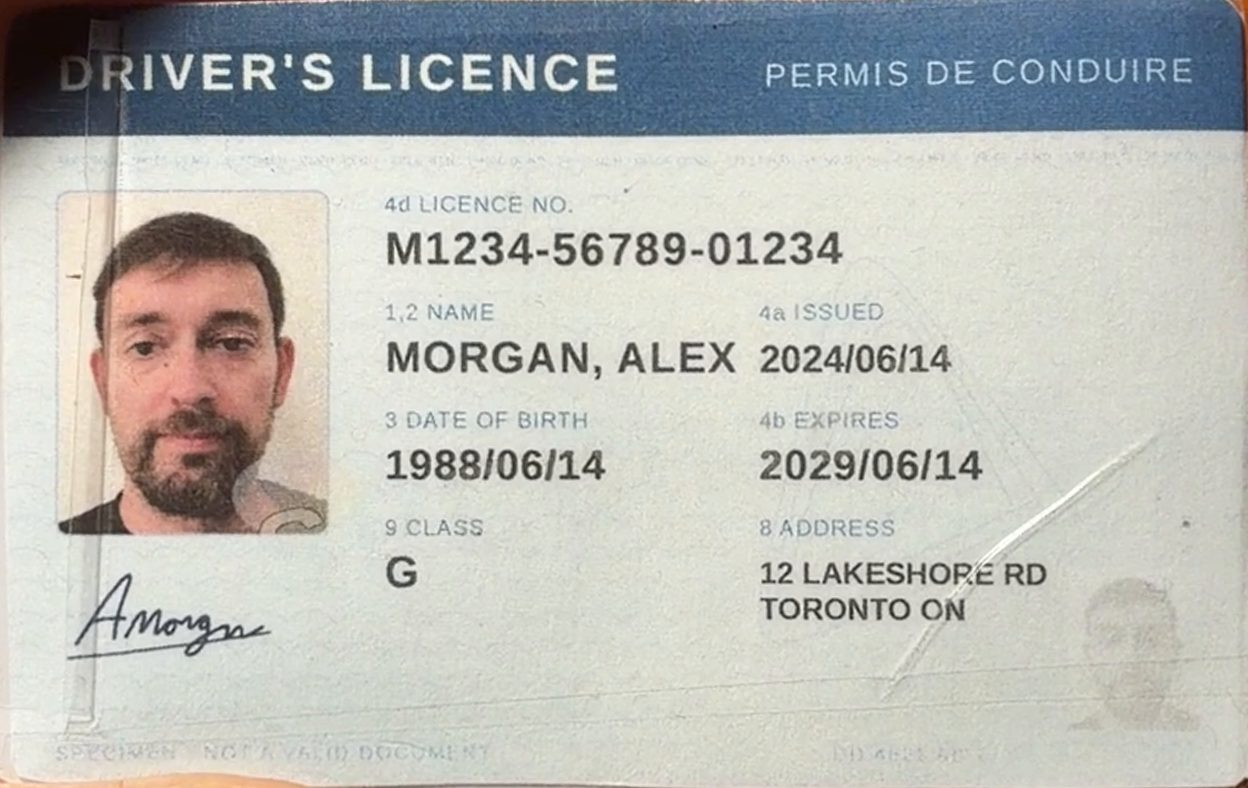
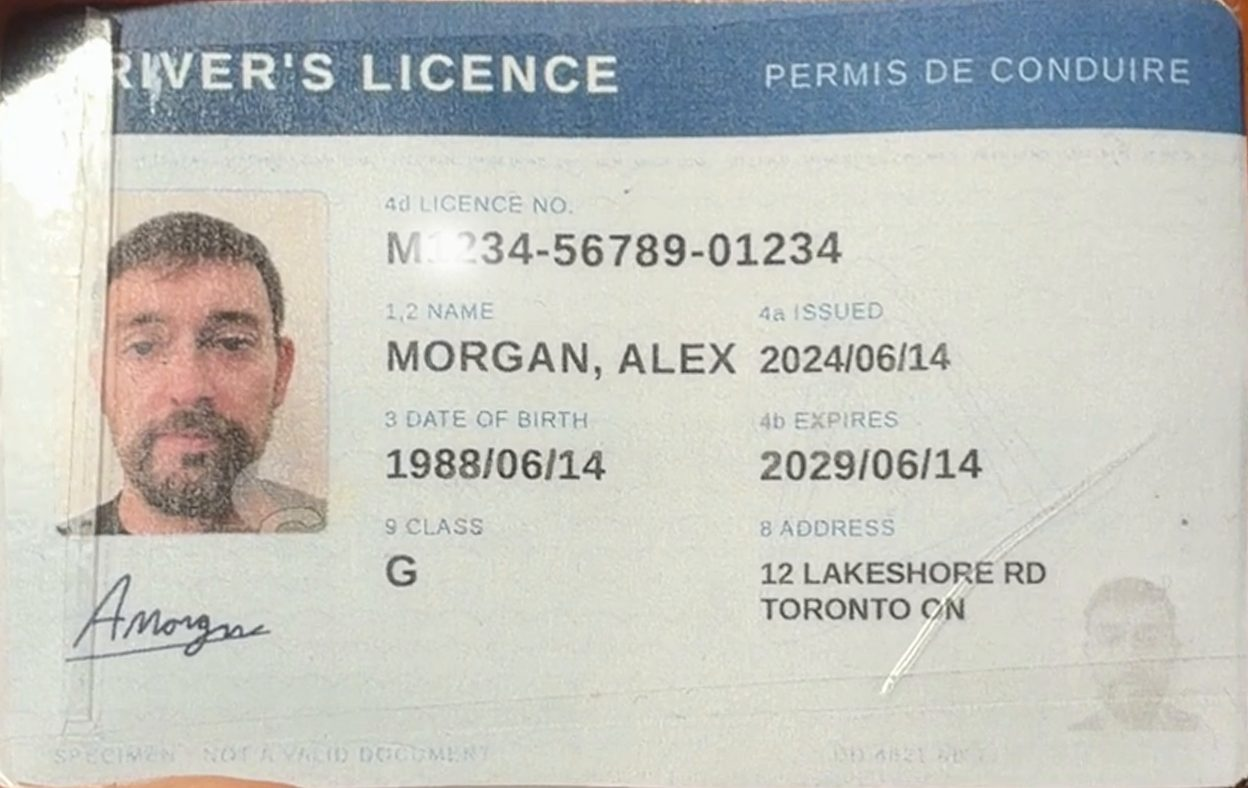
Uride prototype: real camera checks the front right away; one licence-number character under glare is fixed on Check details
Claude-Session: https://claude.ai/code/session_018u1JwWcJ2tKeLwzPZHSzSa

diff --git a/uride-onboarding/index.html b/uride-onboarding/index.html
@@ -347,6 +347,7 @@ body.rec.bare .foot{padding-bottom:12px}
 .field.editing{border-color:var(--ink);box-shadow:0 0 0 3px rgba(31,42,55,.12);background:#fff}
 .field input{width:100%;border:0;outline:0;font-size:16px;line-height:24px;color:var(--ink);background:transparent}
 .field input::placeholder{color:#8A99A4}
+.numgap{flex:1;display:flex;align-items:baseline;font-size:16px;line-height:24px}.numgap input{width:22px;flex:none;text-align:center;margin:0 1px;border-bottom:2px solid var(--amber);border-radius:0;caret-color:var(--ink);font-weight:600}.field.invalid .numgap input{border-color:var(--red-text)}
 .field .err{display:none;font-size:13px;color:var(--red-text);margin-top:2px}
 .field.invalid{border-color:#E0786F}
 .field.invalid .err{display:block}
@@ -628,7 +629,7 @@ function cardBack(){
 /* ================= scenarios ================= */
 const SCEN = {
   story:  {name:'Full story', note:'One take: an expired card first, then glare, shaky hands, one unclear digit and the review screen.', dot:'#1F2A37', f:{expiredFirst:1, glare:'front', blur:'back', unsure:1}},
-  real:   {name:'Real camera', note:'One take on an iPhone with printed specimen cards: an expired card first, then the current one under real lamp glare, both sides.', dot:'#0B6E4F', f:{real:1}},
+  real:   {name:'Real camera', note:'One take on an iPhone with printed specimen cards: an expired card first, then the current one under real lamp glare. A trace of glare hides one character of the licence number; the driver types it.', dot:'#0B6E4F', f:{real:1, unsure:1, unsureKey:'num'}},
   happy:  {name:'Happy path', note:'Card found, captured and read without help.', dot:'#1E8E3E', f:{}},
   glare:  {name:'Glare on the card', note:'A light reflection hides the text. The app asks to tilt.', dot:'#E8A317', f:{glare:'front'}},
   blur:   {name:'Shaky hands', note:'The image is blurry, so capture waits until it is sharp.', dot:'#E8A317', f:{blur:'front'}},
@@ -655,6 +656,7 @@ const SPEC = {
   flip:{t:'Now the back', d:'The card turns over in place, so the driver understands what to do without reading anything.', why:'<b>Show, don’t tell:</b> one movement replaces a paragraph of instructions.', rows:[['Card flip','900ms',sp('· bounce .06')],['Hint cross-fade','240ms','standard']], hap:'Light tap when the flip prompt appears.'},
   read:{t:'Reading the licence', d:'A scan line passes over the photo. Each value lights up on the card at the moment it lands in its field, so the driver sees where every value came from.', why:'<b>Trust:</b> linking the box on the card to the field makes autofill feel checkable, not magic.', rows:[['Photo hand-off','550ms',sp('· bounce 0')],['Scan line','1500ms','ease-in-out'],['Field fill stagger','260ms each','emphasized decel'],['Tick','400ms',sp('· bounce .25')]], hap:'Success when all fields are filled.'},
   unsure:{t:'One value needs a check', d:'OCR is not sure about the expiry date. Only that field turns amber and says why. The driver taps Fix, the number keypad opens with the year almost filled, types the last digit and presses Enter. Continue unlocks.', why:'<b>Rule:</b> never silently guess a legal value. Ask only about the one field we are unsure of.', rows:[['Scroll to the field','smooth','browser default'],['Fix button nudge','2 × 700ms','ease-in-out'],['Edit focus ring','200ms','standard'],['Button unlocks','300ms','standard']], hap:'Light tap on Done.'},
+  unsureNum:{t:'One character needs a check', d:'A trace of the lamp’s glare stayed over the start of the licence number. The expiry date read fine, so the card was accepted at once; this value can wait for the review screen. Only the hidden character is asked for, with the number keypad.', why:'<b>Rule:</b> stop at the camera only for what makes going on pointless (expired, wrong document). Anything the driver can fix in a second waits for one review screen.', rows:[['Field highlight','240ms','standard'],['Gap fills, tick','250ms + pop',sp('· bounce .25')]], hap:'Light tap when the value is confirmed.'},
   expired:{t:'Licence has expired', d:'We read the date right after the front photo, so the driver does not flip a card we cannot accept. The message is about the document, not the photo. One clear action: scan a valid licence. A temporary paper licence has its own path.', why:'<b>2024 problem:</b> the expired warning could be closed and Continue still worked.', rows:[['Checking the front','1100ms','spinner'],['Sheet rises','600ms',sp('· bounce 0')],['Old card leaves','520ms','emphasized accel'],['New card comes in','1200ms','emphasized decel']], hap:'Error (three short taps), once.'},
   review:{t:'Under review: a calm wait', d:'The photo the driver just took carries over and settles in the middle. While we check, the motion is slow on purpose: one turn every 6 seconds and a halo that breathes. The timeline draws itself and says what happens next and when.', why:'<b>Why it matters:</b> waiting is where people drop off. Saying how long, what happens next and letting them keep going turns the wait into progress.', rows:[['Photo carries over','700ms',sp('· bounce 0')],['Badge','400ms',sp('· bounce .25')],['Ring turn','6s loop','linear'],['Halo breath','5s loop','ease-in-out'],['Timeline draws','1100ms','emphasized decel'],['Steps appear','330ms apart','emphasized decel']], hap:'Success on arrival. Light tap on “Notify me”.'},
   manual:{t:'Manual entry', d:'Real inputs. The licence number formats itself as you type, dates use the format printed on the card, and errors appear when you leave a field, not on every key.', why:'<b>Accessibility:</b> labels above fields, 16px text, and errors in words, not only in red.', rows:[['Focus ring','200ms','standard'],['Error reveal','240ms','emphasized decel'],['Button unlocks','300ms','standard']], hap:'None.'},
@@ -990,7 +992,7 @@ async function camera(retry=false){
 /* real camera: one take filmed on an iPhone with printed specimen cards under a desk lamp.
    The video is lightly stabilised (the card is eased towards the frame, hand tremor stays).
    Cues follow what the footage shows: expired card held 1–6.5 s, swap 7–10 s, glare on the new card 11.4–14.3 s,
-   sharp front 14.9–15.7 s, flip ~17.8 s, sharp back 19–20.3 s */
+   front captured at 14.6 s as the glare slides off, flip ~17.8 s, sharp back 19–20.3 s */
 async function realCamera(v,t){
   const wd=$('#wd',v), gd=$('#gd',v), pill=$('#pill',v), ch=$('#ch',v), prog=$('#prog',v), fl=$('#fl',v), cam=$('.cam',v);
   const gt=parseFloat(cam.style.getPropertyValue('--gt'))||228;
@@ -1011,8 +1013,8 @@ async function realCamera(v,t){
       if(vid.currentTime>=s||vid.ended) return r();
       requestAnimationFrame(tick); }; tick(); });
   const snap=()=>gd.querySelectorAll('.cn').forEach(c=>{ c.style.transitionDuration=(SPR.snap.ms*K)+'ms'; c.style.transitionTimingFunction=SPR.snap.e; });
-  const lock=()=>{ spec('camera'); snap(); gd.classList.remove('warn'); gd.classList.add('locked'); setPill(pill,'ok',`${ICON.check}<span>Hold still…</span>`);
-    anim(prog,[{strokeDashoffset:220},{strokeDashoffset:0}],800*K,'linear'); };
+  const lock=(ms=800)=>{ spec('camera'); snap(); gd.classList.remove('warn'); gd.classList.add('locked'); setPill(pill,'ok',`${ICON.check}<span>Hold still…</span>`);
+    anim(prog,[{strokeDashoffset:220},{strokeDashoffset:0}],ms*K,'linear'); };
   const capture=txt=>{ if(FLASH_MODE!=='off') anim(fl,[{opacity:FLASH_MODE==='on'?.75:.45},{opacity:0}],320,EASE.out);
     haptic('medium impact'); setPill(pill,'ok',`${ICON.check}<span>${txt}</span>`); };
   // 1. the driver shows the old card first
@@ -1031,12 +1033,15 @@ async function realCamera(v,t){
   await at(11.4); if(!alive(t))return;
   spec('glare'); gd.classList.add('warn'); setPill(pill,'warn',`${ICON.sun}<span>Too much glare. Tilt your licence slightly</span>`); haptic('warning');
   setHint(ch,'The light is reflecting on the card');
-  await at(14.3); if(!alive(t))return;
+  await at(14.1); if(!alive(t))return;
   gd.classList.remove('warn'); setPill(pill,'',`<span>That’s better</span>`); setHint(ch,'Keep it there');
-  await at(14.9); if(!alive(t))return; lock();
-  await at(15.7); if(!alive(t))return; capture('Front captured');
+  await at(14.25); if(!alive(t))return; lock(350);
+  await at(14.6); if(!alive(t))return; capture('Front captured');
+  // the front is read at once, as with the old card: the date is fine, so no stop here
+  await at(14.75); if(!alive(t))return;
+  setPill(pill,'',`<span class="spinner" style="border-color:rgba(255,255,255,.25);border-top-color:#fff"></span><span>Checking the front…</span>`);
+  await at(15.75); if(!alive(t))return;
   // 4. back
-  await at(16.2); if(!alive(t))return;
   spec('flip'); $('#sdF',v).classList.add('ok');
   setPill(pill,'',`<span>Great. Now turn it over</span>`); setHint(ch,'Same place, back side up');
   swapTitle($('#side',v),'Back of licence'); moveSide(v,1);
@@ -1210,16 +1215,16 @@ async function reading(){
   const yOf=k=>{ const bb=si.querySelector(`[data-f="${k}"]`).getBBox(); return bb.y+bb.height/2; };
   for(const x of [...FIELDS].sort((a,b)=>yOf(a.k)-yOf(b.k))){
     const at=(yOf(x.k)/197)*D; await wait(Math.max(0,at-prev)); prev=at; if(!alive(t))return;
-    const unsure = f.unsure && x.k==='exp', bad = cardOld && x.k==='exp';
+    const unsure = f.unsure && x.k===(f.unsureKey||'exp'), bad = cardOld && x.k==='exp';
     const b=document.createElement('div'); b.className='ocrbox'+(unsure?' unsure':'')+(bad?' bad':'');
     const bb=si.querySelector(`[data-f="${x.k}"]`).getBBox();
     Object.assign(b.style,{left:bb.x*scale-3+'px',top:bb.y*scale-2+'px',width:bb.width*scale+6+'px',height:bb.height*scale+4+'px'});
     si.appendChild(b);
     anim(b,[{opacity:0,transform:'scale(1.18)'},{opacity:1,transform:'scale(1)'}],SPR.snap);
     const fe=$(`[data-k="${x.k}"]`,v), val=$('.v',fe);
-    val.textContent = unsure ? '14 Jun 202?' : bad ? '12 Mar 2025' : x.v;
+    val.textContent = unsure ? (x.k==='num'?'M?234-56789-01234':'14 Jun 202?') : bad ? '12 Mar 2025' : x.v;
     anim(val,[{opacity:0,transform:'translateY(6px)'},{opacity:1,transform:'none'}],360,EASE.decel);
-    if(unsure){ fe.classList.add('unsure'); $('.note',fe).textContent='A hologram covers the last digit of the year. Please check.'; $('.ok',fe).outerHTML=`<button class="fix" id="fix">Fix</button>`; }
+    if(unsure){ fe.classList.add('unsure'); $('.note',fe).textContent=x.k==='num'?'Glare hid one character. Please check it on your card.':'A hologram covers the last digit of the year. Please check.'; $('.ok',fe).outerHTML=`<button class="fix" id="fix">Fix</button>`; }
     else if(bad){ fe.classList.add('bad'); $('.note',fe).textContent='Expired on 12 Mar 2025'; $('.ok',fe).outerHTML=`<span style="color:var(--red-text)">${ICON.alert}</span>`; }
     else { fe.classList.add('filled'); anim($('.ok',fe),[{opacity:0,transform:'scale(.4)'},{opacity:1,transform:'scale(1)'}],SPR.pop); }
   }
@@ -1240,7 +1245,40 @@ async function reading(){
     go.onclick=()=>camera(true);
     return;
   }
-  if(f.unsure){
+  if(f.unsure && f.unsureKey==='num'){
+    // one character of the licence number was under the glare: fill only the gap, the rest stays as read
+    spec('unsureNum');
+    status(`<span style="color:var(--amber)">${ICON.alert}</span>Almost done. Please check one value`);
+    const fx=$('#fix',v), fe=$('[data-k="num"]',v), bd=$('.body',v);
+    fe.scrollIntoView({block:'center',behavior:'smooth'});
+    anim(fx,[{transform:'scale(1)'},{transform:'scale(1.08)'},{transform:'scale(1)'}],700,EASE.inout,{iterations:2,delay:600*K});
+    fx.onclick=()=>{
+      fe.classList.remove('unsure'); fe.classList.add('editing','hinting');
+      const vv=$('.val',fe);
+      vv.innerHTML=`<span class="numgap"><span>M</span><input id="ein" maxlength="1" inputmode="numeric" pattern="[0-9]" enterkeyhint="done" autocomplete="off" aria-label="Licence number, second character"><span>234-56789-01234</span></span><button class="fix" id="ok2" style="color:var(--ink)">Done</button>`;
+      $('.note',fe).textContent='Type the character after M, as printed on your card';
+      const inp=$('#ein',fe);
+      inp.focus();
+      let done=false;
+      const confirm=()=>{
+        if(done) return;
+        const d=inp.value.trim();
+        if(!/^\d$/.test(d)){ fe.classList.add('invalid'); $('.note',fe).textContent=d?'Licence numbers have only digits after the first letter':'Type the missing digit';
+          anim(fe,[{transform:'translateX(0)'},{transform:'translateX(-5px)'},{transform:'translateX(4px)'},{transform:'translateX(0)'}],360,EASE.inout); return; }
+        done=true; inp.blur();
+        vv.innerHTML=`<span class="v">M${d}234-56789-01234</span><span class="ok">${ICON.check}</span>`;
+        $('.note',fe).textContent=''; fe.classList.remove('editing','hinting','invalid'); fe.classList.add('filled'); haptic('light');
+        anim($('.ok',fe),[{opacity:0,transform:'scale(.4)'},{opacity:1,transform:'scale(1)'}],SPR.pop);
+        const bx=si.querySelector('.ocrbox.unsure'); if(bx){bx.classList.remove('unsure');anim(bx,[{opacity:1},{opacity:.3}],600,EASE.std);}
+        status(`<span style="color:var(--green)">${ICON.check}</span>All details read. Please check they’re right`);
+        enable();
+      };
+      inp.addEventListener('input',()=>{ inp.value=inp.value.slice(-1); fe.classList.remove('invalid'); $('.note',fe).textContent='Type the character after M, as printed on your card'; if(/^\d$/.test(inp.value)) setTimeout(confirm,250*K); });
+      inp.addEventListener('keydown',e=>{ if(e.key==='Enter'){ e.preventDefault(); confirm(); } });
+      $('#ok2',fe).addEventListener('pointerdown',e=>e.preventDefault());
+      $('#ok2',fe).onclick=confirm;
+    };
+  } else if(f.unsure){
     spec('unsure');
     status(`<span style="color:var(--amber)">${ICON.alert}</span>Almost done. Please check one value`);
     const fx=$('#fix',v), fe=$('[data-k="exp"]',v), bd=$('.body',v);
@@ -1425,7 +1463,8 @@ async function autopilot(){
     await tapEl('#scan',t,7800);          // let the tips play out on the example card first
     if(f.expired){ await waitFor('#exSc',t); return; }
     if(f.expiredFirst||f.real){ await tapEl('#exSc',t,3200); }
-    if(f.unsure){ await tapEl('#fix',t,1600); const inp=await waitFor('#ein',t); await wait(900); inp.value+='9'; inp.dispatchEvent(new Event('input'));
+    if(f.unsure && f.unsureKey==='num'){ await tapEl('#fix',t,1600); const inp=await waitFor('#ein',t); await wait(900); inp.value='1'; inp.dispatchEvent(new Event('input')); }
+    else if(f.unsure){ await tapEl('#fix',t,1600); const inp=await waitFor('#ein',t); await wait(900); inp.value+='9'; inp.dispatchEvent(new Event('input'));
       await wait(700); inp.dispatchEvent(new KeyboardEvent('keydown',{key:'Enter'})); }
     await waitFor('#go:not([disabled])',t);
     await tapEl('#go',t,1500);
